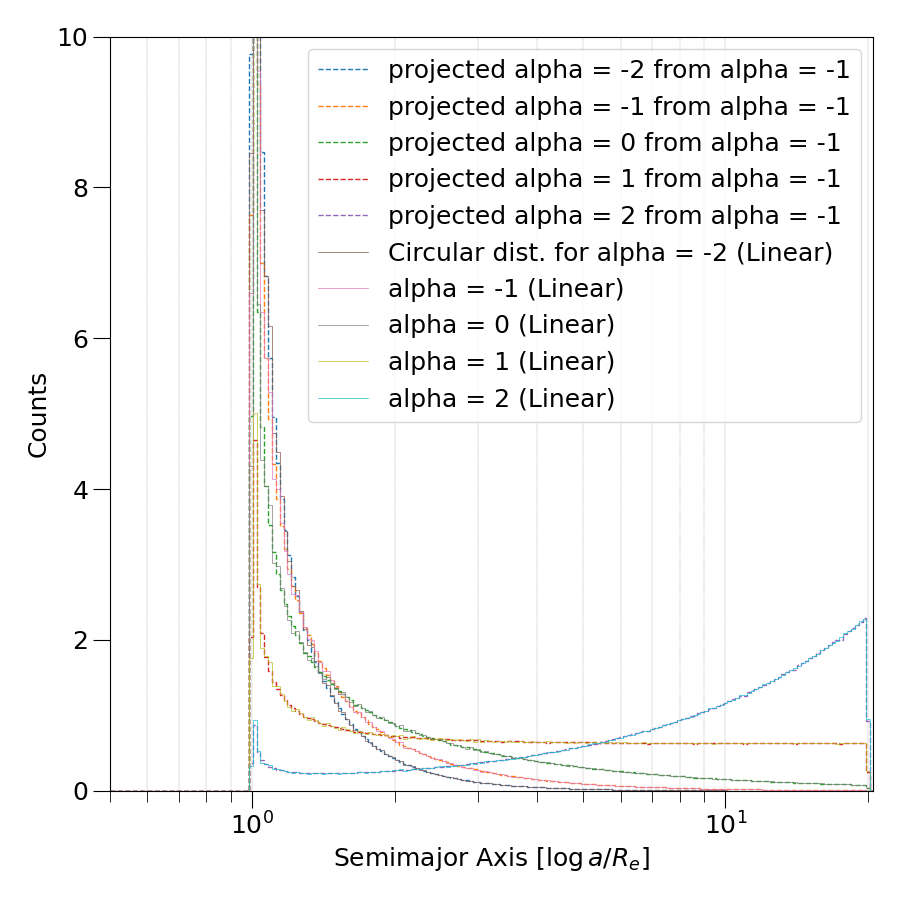
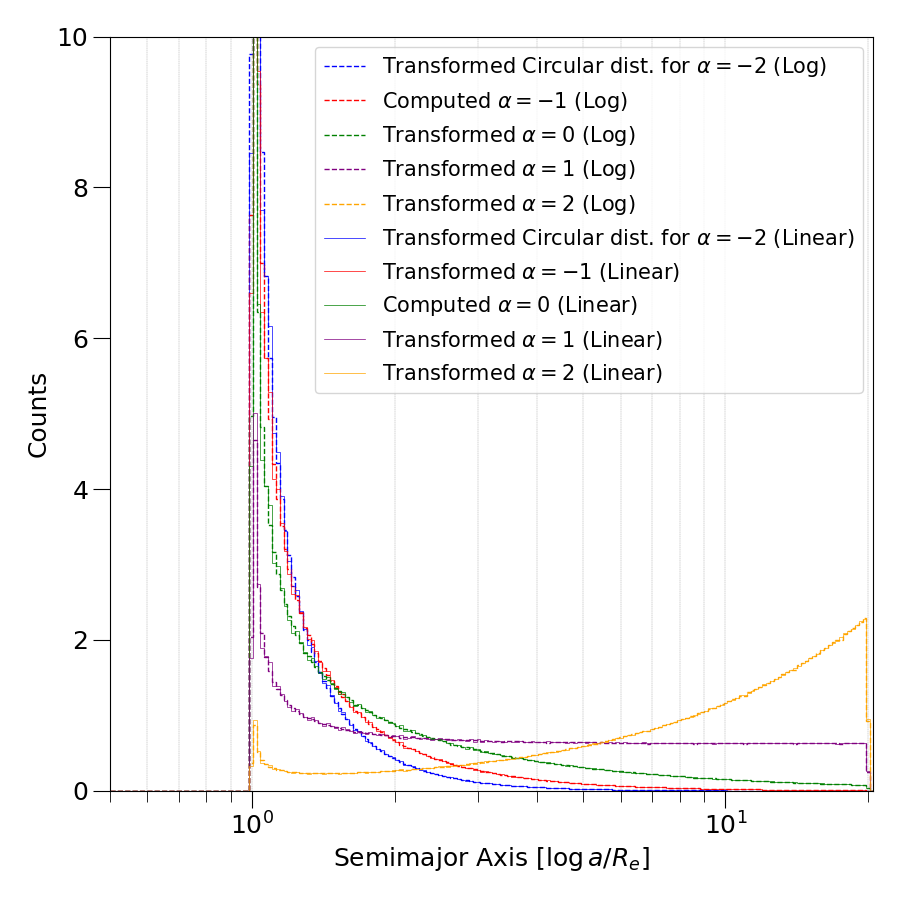
- Changed plotting of test TO HAVE TEXT ONLY FOR LOG (if you want to change it, you will have to manipulate the text itself lol) - Made the three eccent. dist. plots of all 5 alpha values for linear and log comparison

diff --git a/Sep_plot.py b/Sep_plot.py
@@ -1197,17 +1197,17 @@ class Sep_plot(Sep_gen):
                     ecirc_test_plus_1 = np.abs(1 / (np.sum(circhist_test_plus_1) * logbinsize))
                     ecirc_test_plus_2 = np.abs(1 / (np.sum(circhist_test_plus_2) * logbinsize))
                     
-                    StepPatch = ax.stairs(circhist_test_minus_2 * ecirc_test_minus_2, bins, linestyle = "--", fill = False, label = f"projected alpha = -2 from alpha = {alpha_step}") 
-                    StepPatch = ax.stairs(circhist_test_minus_1 * ecirc_test_minus_1, bins, linestyle = "--", fill = False, label = f"projected alpha = -1 from alpha = {alpha_step}")
-                    StepPatch = ax.stairs(circhist_test_0 * ecirc_test_0, bins, linestyle = "--", fill = False, label = f"projected alpha = 0 from alpha = {alpha_step}") 
-                    StepPatch = ax.stairs(circhist_test_plus_1 * ecirc_test_plus_1, bins, linestyle = "--", fill = False, label = f"projected alpha = 1 from alpha = {alpha_step}")
-                    StepPatch = ax.stairs(circhist_test_plus_2 * ecirc_test_plus_2, bins, linestyle = "--", fill = False, label = f"projected alpha = 2 from alpha = {alpha_step}")
+                    StepPatch = ax.stairs(circhist_test_minus_2 * ecirc_test_minus_2, bins, linestyle = "--", ec = "blue", label = rf"Transformed Circular dist. for $\alpha = -2$ (Log)") 
+                    StepPatch = ax.stairs(circhist_test_minus_1 * ecirc_test_minus_1, bins, linestyle = "--", ec = "r", label = rf"Computed $\alpha = -1$ (Log)")
+                    StepPatch = ax.stairs(circhist_test_0 * ecirc_test_0, bins, linestyle = "--", ec = "g", label = rf"Transformed $\alpha = 0$ (Log)") 
+                    StepPatch = ax.stairs(circhist_test_plus_1 * ecirc_test_plus_1, bins, linestyle = "--", ec = "purple", label = rf"Transformed $\alpha = 1$ (Log)")
+                    StepPatch = ax.stairs(circhist_test_plus_2 * ecirc_test_plus_2, bins, linestyle = "--", ec = "orange", label = rf"Transformed $\alpha = 2$ (Log)")
                     
-                StepPatch = ax.stairs(circhist_1 * ecircnorm_1, bins, fill = False, lw = 0.5, label = f"Circular dist. for alpha = -2 ({which})") 
-                StepPatch = ax.stairs(circhist_2 * ecircnorm_2, bins, fill = False, lw = 0.5, label = f"alpha = -1 ({which})")
-                StepPatch = ax.stairs(circhist_3 * ecircnorm_3, bins, fill = False, lw = 0.5, label = f"alpha = 0 ({which})") 
-                StepPatch = ax.stairs(circhist_4 * ecircnorm_4, bins, fill = False, lw = 0.5, label = f"alpha = 1 ({which})")
-                StepPatch = ax.stairs(circhist_5 * ecircnorm_5, bins, fill = False, lw = 0.5, label = f"alpha = 2 ({which})")
+                StepPatch = ax.stairs(circhist_1 * ecircnorm_1, bins, ec = "blue", lw = 0.5, label = rf"Transformed Circular dist. for $\alpha = -2$ ({which})") 
+                StepPatch = ax.stairs(circhist_2 * ecircnorm_2, bins, ec = "r", lw = 0.5, label = rf"Transformed $\alpha = -1$ ({which})")
+                StepPatch = ax.stairs(circhist_3 * ecircnorm_3, bins, ec = "g", lw = 0.5, label = rf"Computed $\alpha = 0$ ({which})") 
+                StepPatch = ax.stairs(circhist_4 * ecircnorm_4, bins, ec = "purple", lw = 0.5, label = rf"Transformed $\alpha = 1$ ({which})")
+                StepPatch = ax.stairs(circhist_5 * ecircnorm_5, bins, ec = "orange", lw = 0.5, label = rf"Transformed $\alpha = 2$ ({which})")
             elif dist == "uniform":
                 uniformhist_1 = df_unity_1["final list"].to_numpy()
                 uniformhist_2 = df_unity_2["final list"].to_numpy()
@@ -1234,17 +1234,17 @@ class Sep_plot(Sep_gen):
                     norm_test_plus_1 = np.abs(1 / (np.sum(uniformhist_test_plus_1) * logbinsize))
                     norm_test_plus_2 = np.abs(1 / (np.sum(uniformhist_test_plus_2) * logbinsize))
                     
-                    StepPatch = ax.stairs(uniformhist_test_minus_2 * norm_test_minus_2, bins, linestyle = "--", fill = False, label = f"projected alpha = -2 from alpha = {alpha_step}") 
-                    StepPatch = ax.stairs(uniformhist_test_minus_1 * norm_test_minus_1, bins, linestyle = "--", fill = False, label = f"projected alpha = -1 from alpha = {alpha_step}")
-                    StepPatch = ax.stairs(uniformhist_test_0 * norm_test_0, bins, linestyle = "--", fill = False, label = f"projected alpha = 0 from alpha = {alpha_step}") 
-                    StepPatch = ax.stairs(uniformhist_test_plus_1 * norm_test_plus_1, bins, linestyle = "--", fill = False, label = f"projected alpha = 1 from alpha = {alpha_step}")
-                    StepPatch = ax.stairs(uniformhist_test_plus_2 * norm_test_plus_2, bins, linestyle = "--", fill = False, label = f"projected alpha = 2 from alpha = {alpha_step}")
+                    StepPatch = ax.stairs(uniformhist_test_minus_2 * norm_test_minus_2, bins, linestyle = "--", ec = "blue", label = rf"Transformed Uniform dist. for $\alpha = -2$ (Log)") 
+                    StepPatch = ax.stairs(uniformhist_test_minus_1 * norm_test_minus_1, bins, linestyle = "--", ec = "r", label = rf"Computed $\alpha = -1$ (Log)")
+                    StepPatch = ax.stairs(uniformhist_test_0 * norm_test_0, bins, linestyle = "--", ec = "g", label = rf"Transformed $\alpha = 0$ (Log)") 
+                    StepPatch = ax.stairs(uniformhist_test_plus_1 * norm_test_plus_1, bins, linestyle = "--", ec = "purple", label = rf"Transformed $\alpha = 1$ (Log)")
+                    StepPatch = ax.stairs(uniformhist_test_plus_2 * norm_test_plus_2, bins, linestyle = "--", ec = "orange", label = rf"Transformed $\alpha = 2$ (Log)")
                 
-                StepPatch = ax.stairs(uniformhist_1 * norm_1, bins, fill = False, lw = 0.5, label = f"Uniform dist. for alpha = -2 ({which})")
-                StepPatch = ax.stairs(uniformhist_2 * norm_2, bins, fill = False, lw = 0.5, label = f"alpha = -1 ({which})")
-                StepPatch = ax.stairs(uniformhist_3 * norm_3, bins, fill = False, lw = 0.5, label = f"alpha = 0 ({which})")
-                StepPatch = ax.stairs(uniformhist_4 * norm_4, bins, fill = False, lw = 0.5, label = f"alpha = 1 ({which})")
-                StepPatch = ax.stairs(uniformhist_5 * norm_5, bins, fill = False, lw = 0.5, label = f"alpha = 2 ({which})")
+                StepPatch = ax.stairs(uniformhist_1 * norm_1, bins, ec = "blue", lw = 0.5, label = rf"Transformed Uniform dist. for $\alpha = -2$ ({which})")
+                StepPatch = ax.stairs(uniformhist_2 * norm_2, bins, ec = "r", lw = 0.5, label = rf"Transformed $\alpha = -1$ ({which})")
+                StepPatch = ax.stairs(uniformhist_3 * norm_3, bins, ec = "g", lw = 0.5, label = rf"Computed $\alpha = 0$ ({which})")
+                StepPatch = ax.stairs(uniformhist_4 * norm_4, bins, ec = "purple", lw = 0.5, label = rf"Transformed $\alpha = 1$ ({which})")
+                StepPatch = ax.stairs(uniformhist_5 * norm_5, bins, ec = "orange", lw = 0.5, label = rf"Transformed $\alpha = 2$ ({which})")
             elif dist == "gamma":
                 gammahist_1 = df_unity_1["gamma list"].to_numpy()
                 gammahist_2 = df_unity_2["gamma list"].to_numpy()
@@ -1271,17 +1271,17 @@ class Sep_plot(Sep_gen):
                     gammanorm_test_plus_1 = np.abs(1 / (np.sum(gammahist_test_plus_1) * logbinsize))
                     gammanorm_test_plus_2 = np.abs(1 / (np.sum(gammahist_test_plus_2) * logbinsize))
                     
-                    StepPatch = ax.stairs(gammahist_test_minus_2 * gammanorm_test_minus_2, bins, linestyle = "--", fill = False, label = f"projected alpha = -2 from alpha = {alpha_step}") 
-                    StepPatch = ax.stairs(gammahist_test_minus_1 * gammanorm_test_minus_1, bins, linestyle = "--", fill = False, label = f"projected alpha = -1 from alpha = {alpha_step}")
-                    StepPatch = ax.stairs(gammahist_test_0 * gammanorm_test_0, bins, linestyle = "--", fill = False, label = f"projected alpha = 0 from alpha = {alpha_step}") 
-                    StepPatch = ax.stairs(gammahist_test_plus_1 * gammanorm_test_plus_1, bins, linestyle = "--", fill = False, label = f"projected alpha = 1 from alpha = {alpha_step}")
-                    StepPatch = ax.stairs(gammahist_test_plus_2 * gammanorm_test_plus_2, bins, linestyle = "--", fill = False, label = f"projected alpha = 2 from alpha = {alpha_step}")
+                    StepPatch = ax.stairs(gammahist_test_minus_2 * gammanorm_test_minus_2, bins, linestyle = "--", ec = "blue", label = rf"Transformed Gamma dist. for $\alpha = -2$ (Log)") 
+                    StepPatch = ax.stairs(gammahist_test_minus_1 * gammanorm_test_minus_1, bins, linestyle = "--", ec = "r", label = rf"Computed $\alpha = -1$ (Log)")
+                    StepPatch = ax.stairs(gammahist_test_0 * gammanorm_test_0, bins, linestyle = "--", ec = "g", label = rf"Transformed $\alpha = 0$ (Log)") 
+                    StepPatch = ax.stairs(gammahist_test_plus_1 * gammanorm_test_plus_1, bins, linestyle = "--", ec = "purple", label = rf"Transformed $\alpha = 1$ (Log)")
+                    StepPatch = ax.stairs(gammahist_test_plus_2 * gammanorm_test_plus_2, bins, linestyle = "--", ec = "orange", label = rf"Transformed $\alpha = 2$ (Log)")
                 
-                StepPatch = ax.stairs(gammahist_1 * gammanorm_final_1, bins, fill = False, lw = 0.5, label = f"Gamma dist. for alpha = -2 ({which})")
-                StepPatch = ax.stairs(gammahist_2 * gammanorm_final_2, bins, fill = False, lw = 0.5, label = f"alpha = -1 ({which})")
-                StepPatch = ax.stairs(gammahist_3 * gammanorm_final_3, bins, fill = False, lw = 0.5, label = f"alpha = 0 ({which})")
-                StepPatch = ax.stairs(gammahist_4 * gammanorm_final_4, bins, fill = False, lw = 0.5, label = f"alpha = 1 ({which})")
-                StepPatch = ax.stairs(gammahist_5 * gammanorm_final_5, bins, fill = False, lw = 0.5, label = f"alpha = 2 ({which})")           
+                StepPatch = ax.stairs(gammahist_1 * gammanorm_final_1, bins, ec = "blue", lw = 0.5, label = rf"Transformed Gamma dist. for $\alpha = -2$ ({which})")
+                StepPatch = ax.stairs(gammahist_2 * gammanorm_final_2, bins, ec = "r", lw = 0.5, label = rf"Transformed $\alpha = -1$ ({which})")
+                StepPatch = ax.stairs(gammahist_3 * gammanorm_final_3, bins, ec = "g", lw = 0.5, label = rf"Computed $\alpha = 0$ ({which})")
+                StepPatch = ax.stairs(gammahist_4 * gammanorm_final_4, bins, ec = "purple", lw = 0.5, label = rf"Transfomred $\alpha = 1$ ({which})")
+                StepPatch = ax.stairs(gammahist_5 * gammanorm_final_5, bins, ec = "orange", lw = 0.5, label = rf"Transformed $\alpha = 2$ ({which})")           
         else:
             if not circ:
                 if test:
@@ -1358,7 +1358,7 @@ class Sep_plot(Sep_gen):
             # handles = [patches.Rectangle((0,0),1,1,color = c, ec = "w") for c in colorlist]    
             ax.legend()
         else:
-            ax.legend()
+            ax.legend(fontsize = 15)
             
         fig.tight_layout()
         if len(dist) == 0:
@@ -1910,7 +1910,7 @@ if __name__ == "__main__":
     gamma_bool = False
     test = True
     unity = False
-    dist = "uniform"
+    dist = "circular"
     # specify = []
     specify = [0.5, np.pi/3]
     tothist = Sep_plot(numestep=numestep, numdiv=numdiv, wnum = wnum)
